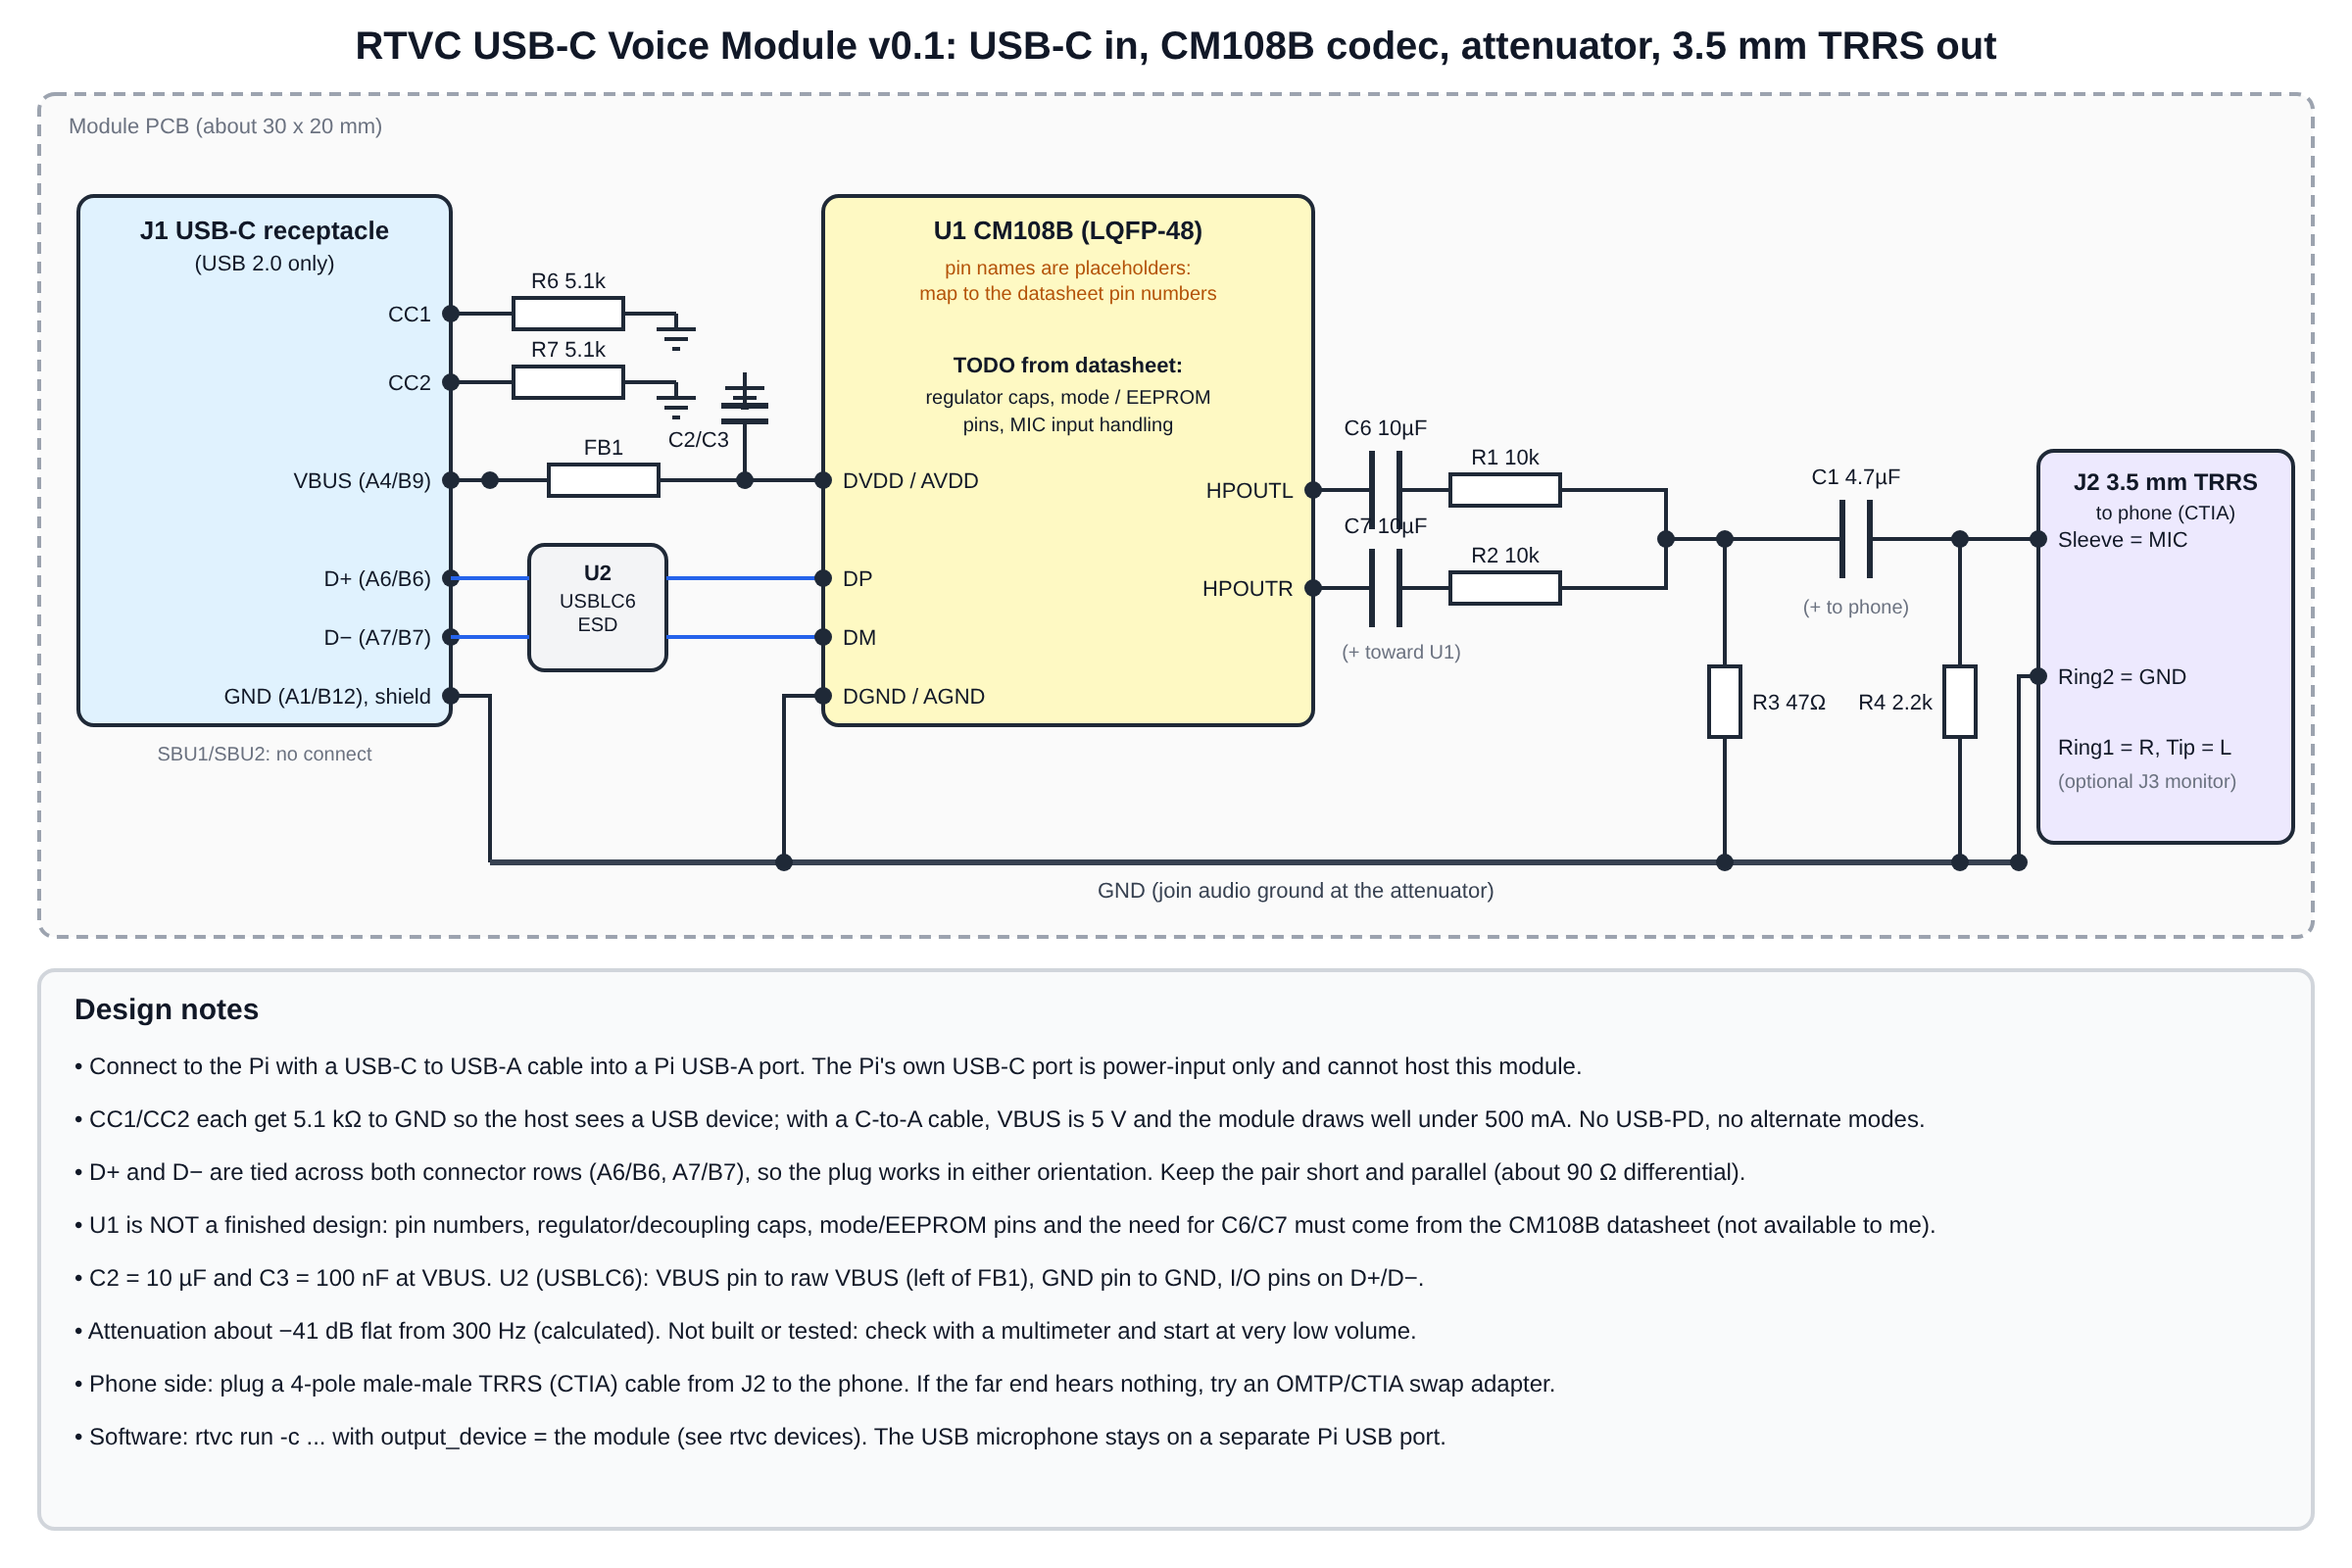
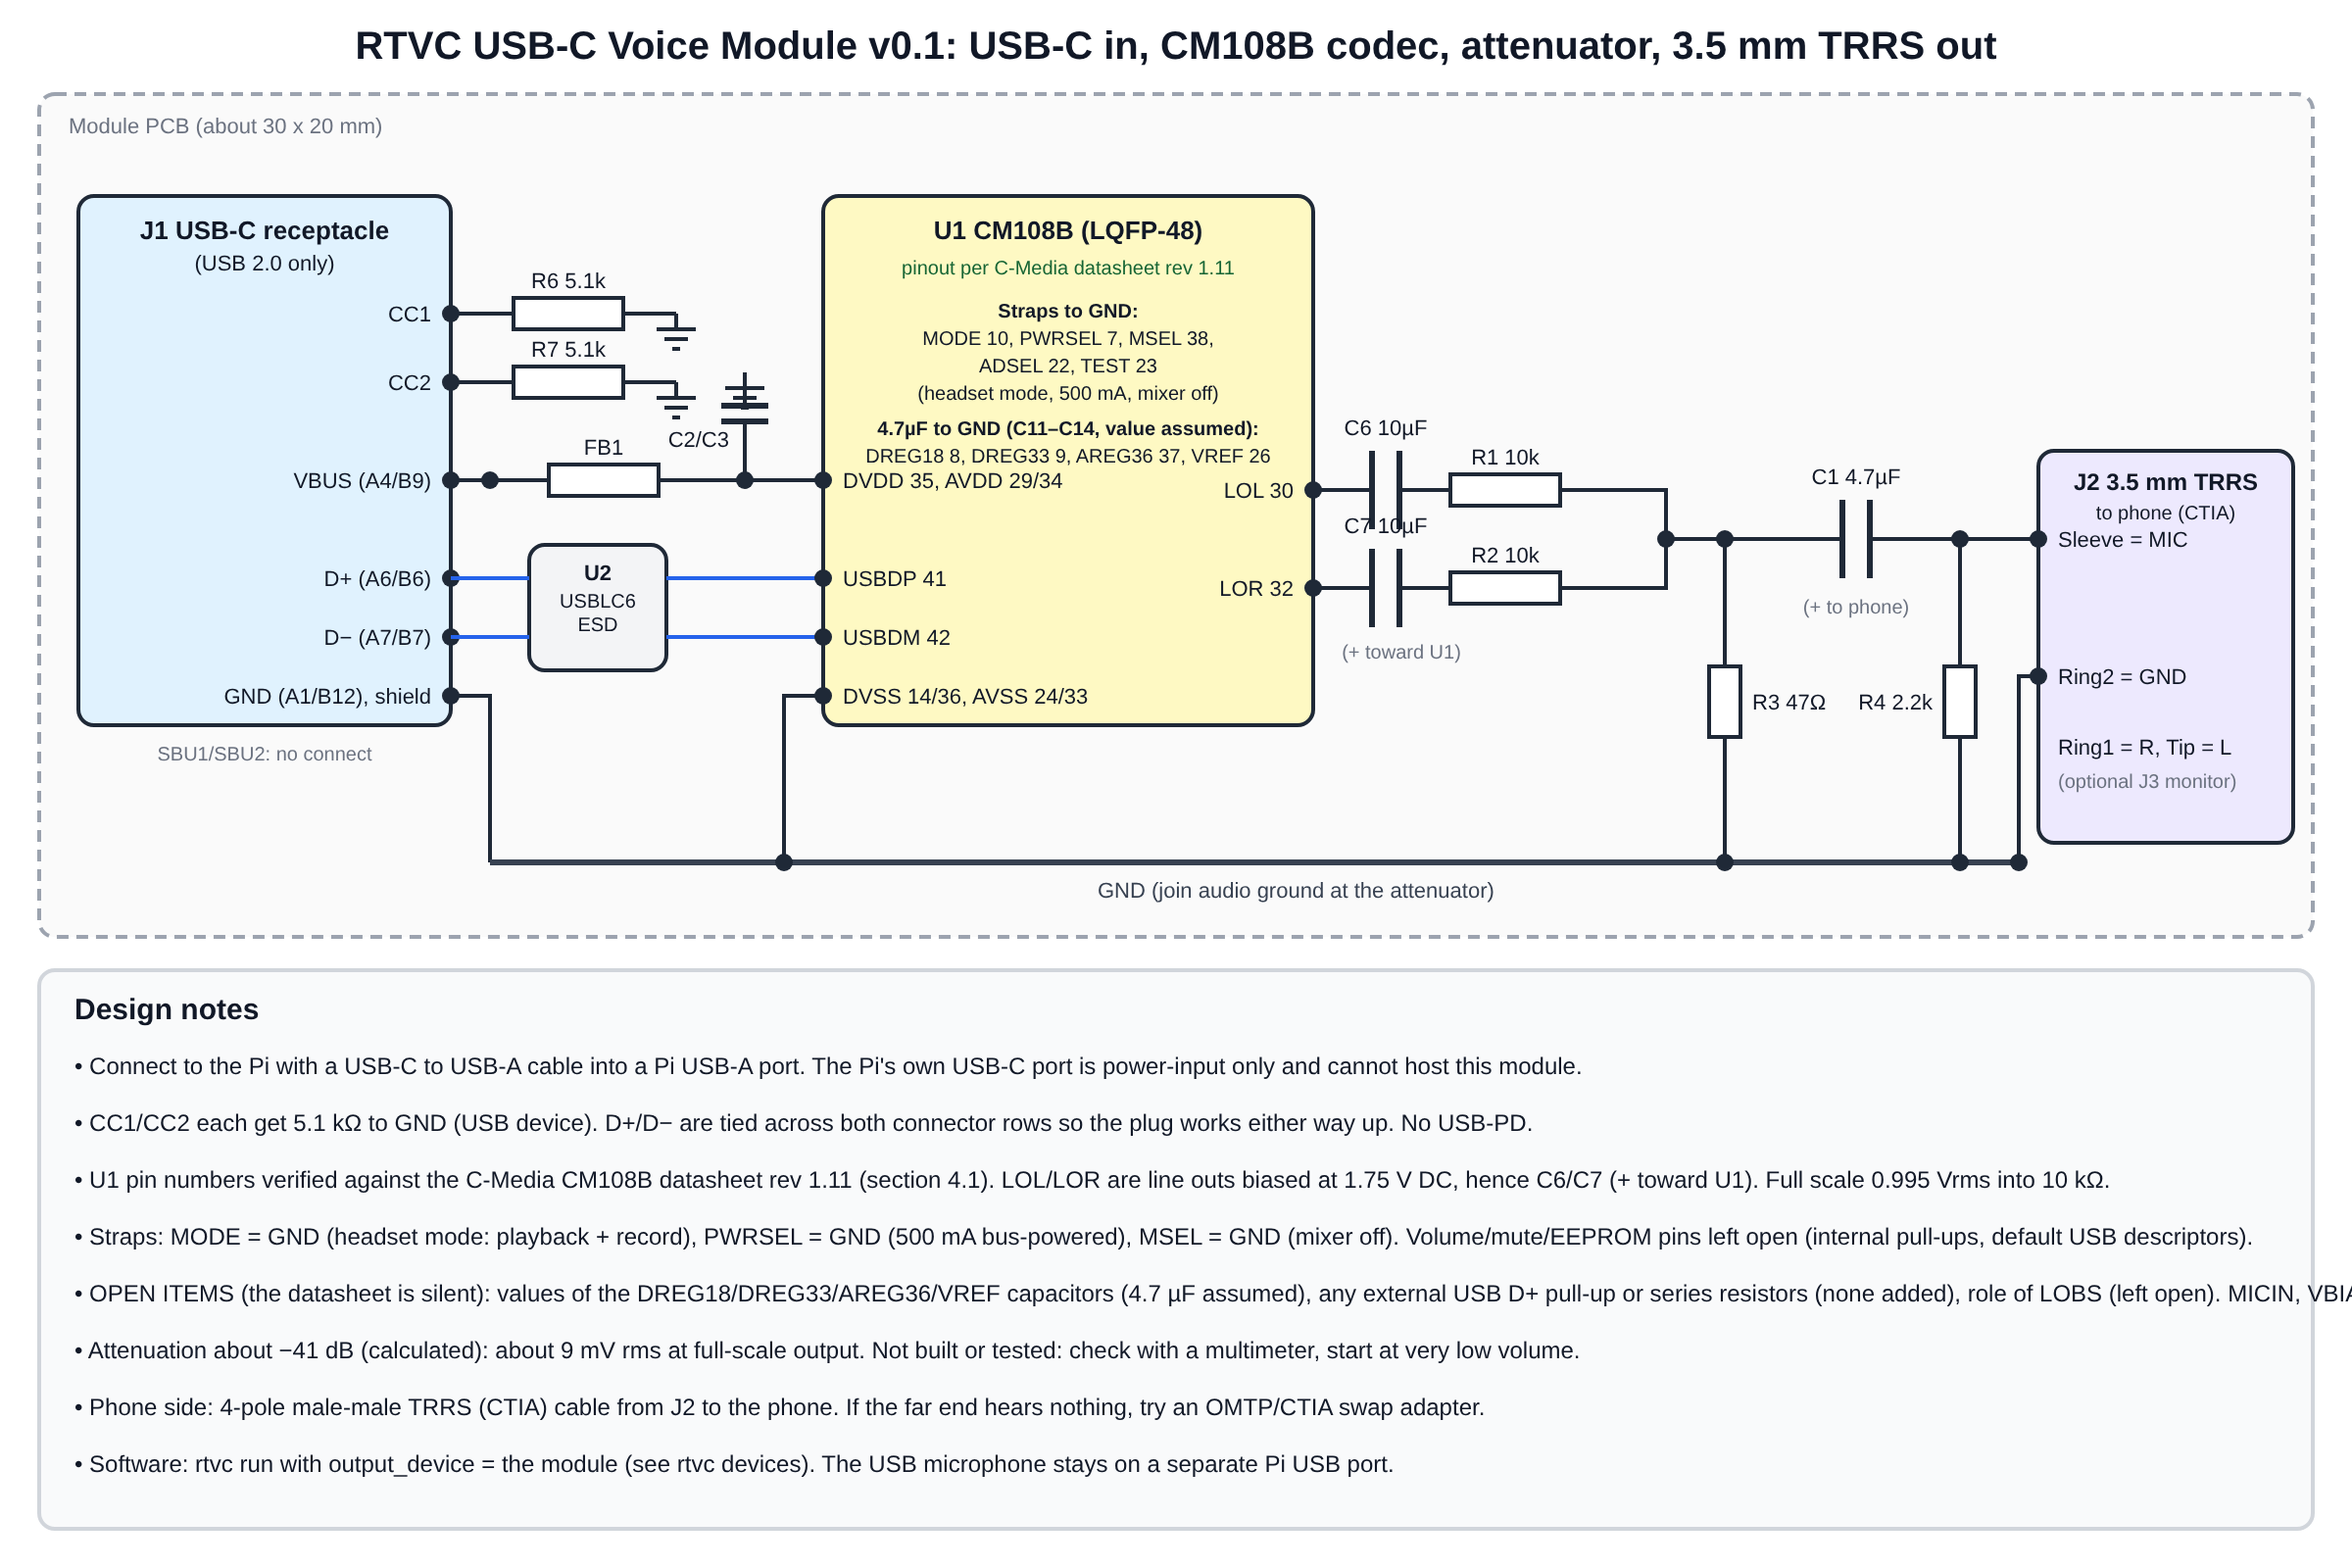
USB-C module: real CM108B pinout, straps and supply from datasheet rev 1.11
Claude-Session: https://claude.ai/code/session_01XttNqu7wBhQxrmamxngdwL

diff --git a/hardware/usbc/README.md b/hardware/usbc/README.md
@@ -11,10 +11,15 @@ A small USB audio module: **USB Type-C in**, **CM108B codec**, level attenuator,
 | `../../docs/usbc_schematic.svg` | Schematic drawing |
 
 ## What is and is not finished
-* **Finished from the USB Type-C spec:** receptacle wiring, 5.1 kΩ CC pull-downs (device), D+/D− tied across both rows, ESD part, VBUS filter and decoupling, attenuator and jack wiring.
-* **Not finished: the CM108B (`U1`).** I could not reach the datasheet from the build session, so pin numbers, regulator/decoupling capacitors, mode/EEPROM pins and whether the headphone DC-blocking caps (`C6`/`C7`) are needed are **placeholders**. Pin names in the netlist are functional (DVDD, AVDD, DP, DM, HPOUTL, HPOUTR, DGND, AGND), not LQFP-48 pad numbers. Get the C-Media CM108B datasheet and complete `U1` before ordering a board. The CM119 needs its own datasheet.
-* **Other assumptions to check:** the Type-C receptacle pad names (`A1B12`, `A4B9`, ...) follow KiCad's HRO TYPE-C-31-M-12 footprint, and the jack pad names (`TIP`, `RING1`, `RING2`, `SLEEVE`) are generic. Map them to the parts you pick.
-* **Untested:** not opened in KiCad, not fabricated. The attenuator gain (about -41 dB) is a calculation.
+* **Verified against the C-Media CM108B datasheet (rev 1.11):** U1's pin numbers (section 4.1) are in the netlist. Supply is 5 V (DVDD 35, AVDD 29/34). Straps: `MODE` (10) = GND for headset mode, `PWRSEL` (7) = GND for 500 mA bus power, `MSEL` (38) = GND (mixer off), `ADSEL` (22) and `TEST` (23) = GND. USB data on `USBDP` (41) / `USBDM` (42). The outputs are **line outs** `LOL` (30) / `LOR` (32), biased at 1.75 V DC, so DC-blocking capacitors C6/C7 are required. Full-scale output is 0.995 Vrms into 10 kΩ, so the -41 dB attenuator gives about 9 mV rms at full scale.
+* **Finished from the USB Type-C spec:** receptacle wiring, 5.1 kΩ CC pull-downs (device), D+/D− tied across both rows, ESD part, VBUS filter, attenuator and jack wiring.
+* **Open items the datasheet does not answer** (it has no application circuit): 
+  1. Values of the capacitors on `DREG18` (8), `DREG33` (9), `AREG36` (37) and `VREF` (26). I assumed 4.7 µF each (C11–C14). Confirm against C-Media's reference design.
+  2. Whether external USB D+ pull-up or series resistors are needed. None are added; the datasheet only says "only a few passive components are necessary".
+  3. What `LOBS` (31, "DC 1.75 V output for line out bias") is meant to connect to. Left open.
+* **Left unconnected on purpose:** `MICIN`, `VBIAS`, volume/mute pins (internal pull-ups), EEPROM pins (default USB descriptors), I2S, GPIO, SPDIF, LED pins, `PDSW`, N.C. pins 11 and 28.
+* **Other assumptions to check:** the Type-C receptacle pad names (`A1B12`, `A4B9`, ...) follow KiCad's HRO TYPE-C-31-M-12 footprint, and the jack pad names (`TIP`, `RING1`, `RING2`, `SLEEVE`) are generic. The CM119 is not covered (different datasheet).
+* **Untested:** not opened in KiCad, not fabricated. The attenuator gain (about -41 dB) is a calculation. The CM108B is a 0.5 mm-pitch LQFP-48: hand soldering is hard, so plan for hot-air or a fab assembly service.
 
 ## Connecting it
 * **To the Pi:** USB-C to **USB-A** cable into a Pi USB-A port. The Pi's own USB-C port is power-input only; it cannot host this module. USB 2.0 is all that is needed.

diff --git a/README.md b/README.md
@@ -48,7 +48,7 @@ Only convert voices you have permission to use, and don't use this to deceive or
 
 *System overview and wiring detail (values: 2 × 10 kΩ, 47 Ω, 2.2 kΩ, 4.7 µF; see `hardware/`). Not yet built or tested on real hardware, so verify with a multimeter and a low volume first.*
 
-Prefer a single USB-C module (USB-C in, 3.5 mm jack out)? See **[USB-C Voice Module](hardware/usbc/README.md)** (design only; the codec chip support circuit still needs the datasheet).
+Prefer a single USB-C module (USB-C in, 3.5 mm jack out)? See **[USB-C Voice Module](hardware/usbc/README.md)** (design only, untested; CM108B pinout verified against the datasheet, a few support-circuit values still open).
 
 Prefer one board? See the **[Voice HAT design](hardware/hat/README.md)** (CM108/CM119 module + attenuator + TRRS on a Pi-sized PCB; design only, untested).
 
